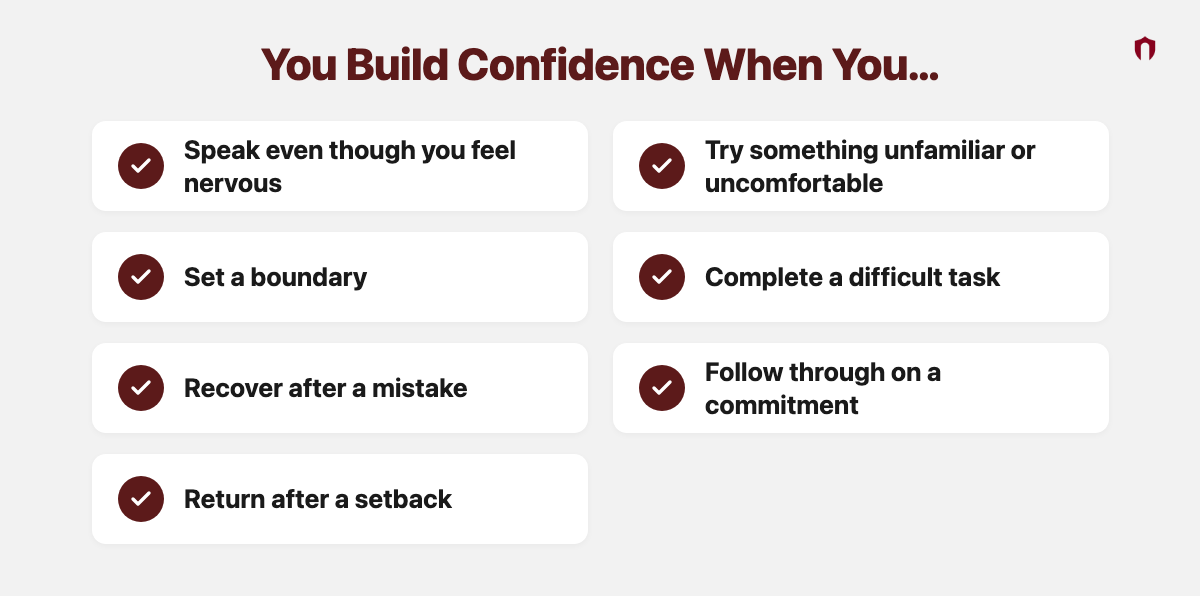
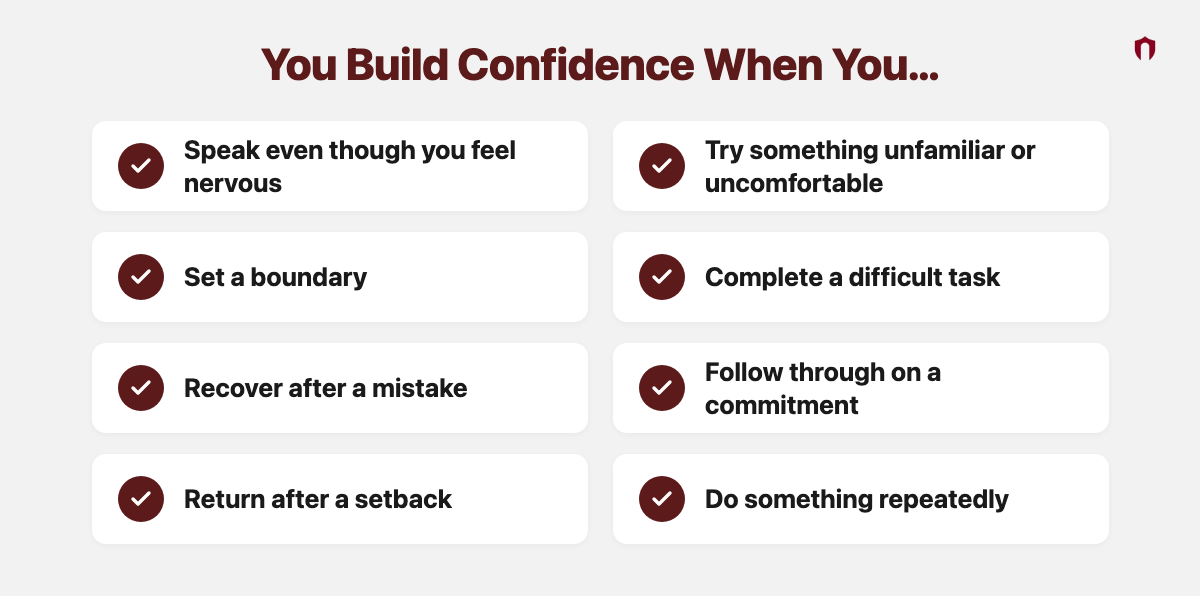
Add an eighth confidence action and drop the trailing clause

Changed region(s): [[0.5242, 0.7852, 0.8325, 0.8758]]

diff --git a/topics/self-esteem.html b/topics/self-esteem.html
@@ -99,8 +99,7 @@
         <p>But if you repeatedly enter difficult situations, make mistakes, adjust, and continue, a different belief can begin to form:</p>
         <p>“This may be uncomfortable, but I can work through it.”</p>
         <p>That’s a more durable, <em>real</em> form of confidence.</p>
-        <img src="../images/self-esteem-build-confidence.png" alt="You Build Confidence When You: speak even though you feel nervous, try something unfamiliar or uncomfortable, set a boundary, complete a difficult task, recover after a mistake, follow through on a commitment, return after a setback" style="width:100%; max-width:720px; display:block; margin:0.6rem auto; border-radius: var(--radius); box-shadow: var(--shadow);">
-        <p>You give yourself another piece of evidence.</p>
+        <img src="../images/self-esteem-build-confidence.png" alt="You Build Confidence When You: speak even though you feel nervous, try something unfamiliar or uncomfortable, set a boundary, complete a difficult task, recover after a mistake, follow through on a commitment, return after a setback, do something repeatedly" style="width:100%; max-width:720px; display:block; margin:0.6rem auto; border-radius: var(--radius); box-shadow: var(--shadow);">
         <p>Confidence isn’t just about your ability to succeed, it’s about the evidence you accumulate that you can try, adapt, learn, and continue on.</p>
 
         <p class="module-subtitle"><strong>Confidence Doesn’t Mean Feeling Certain</strong></p>
